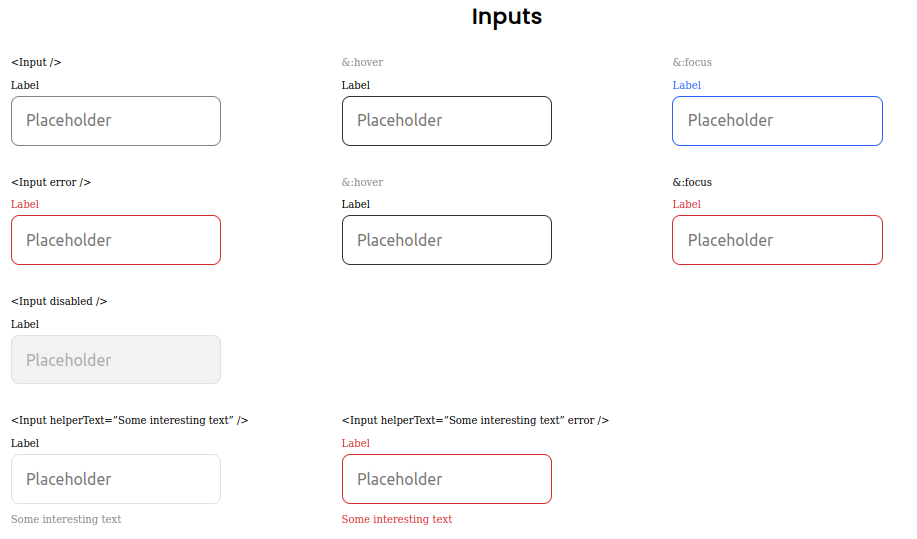
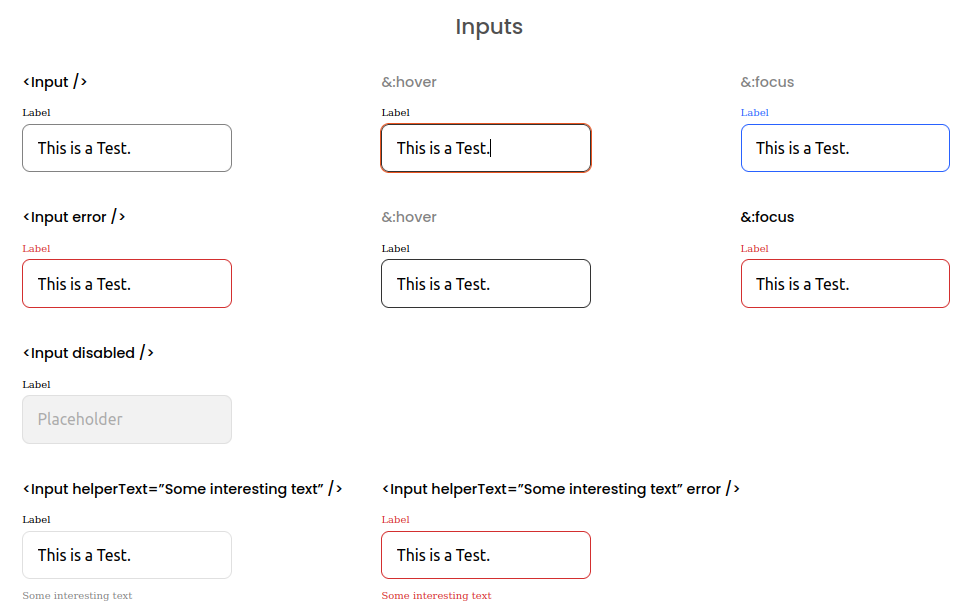
Fixed Navbar to the top.

diff --git a/src/styles/App.css b/src/styles/App.css
@@ -1,53 +1,5 @@
 @import url('https://fonts.googleapis.com/css2?family=Montserrat+Alternates:wght@500;600&family=Poppins:wght@500&display=swap');
-
-.App {
-  min-height: 100vh;
-  display: flex;
-  flex-direction: column;
-  align-items: center;
-  justify-content: center;
-  font-size: calc(10px + 2vmin);
-}
-.inputs-tittle {
-  font-family: Poppins;
-  font-size: 1.5rem;
-}
-.inputs-container {
-  display:grid;
-  justify-content: center;
-  grid-template-columns: 1fr 1fr 1fr;
-}
-
-.input-box {
-  display: flex;
-  flex-direction: column;
-  justify-content: center;
-  font-size: 0.7rem;
-}
-
-.input-name {
-  font-family: Poppins;
-  font-size: 1rem;
-}
-
-
-.input-box > input {
-  font-size: 1.1rem;
-  margin-top: 0.3rem;
-  width: 12.5rem;
-  padding: 1rem;
-  border: 1px solid #ccc;
-  border-radius: 8px;
-}
-
-.material-symbols-outlined {
-  font-size: 1.5rem;
-  color: #828282;
-  position: absolute;
-  margin-top: 2.7rem;
-  background:#fff;
-}
-
+/*Ids*/
 #input1 {
   grid-column: 1;
   grid-row: 1;
@@ -113,6 +65,69 @@
   grid-row: 9;
 }
 
+/*Classes*/
+.App {
+  min-height: 100vh;
+  display: flex;
+  flex-direction: column;
+  align-items: center;
+  justify-content: center;
+  font-size: calc(10px + 2vmin);
+}
+
+.inputs-tittle {
+  background: #FAFBFD;
+  position: fixed;
+  top: 0;
+  width:100%;
+  text-align: center;
+
+}
+.inputs-tittle > h1 {
+  
+  font-family: Poppins;
+  font-size: 1.5rem;
+  color:#4F4F4F;
+  font-weight: 500;
+}
+
+.inputs-container {
+  margin-top: 3rem;
+  display:grid;
+  justify-content: center;
+  grid-template-columns: 1fr 1fr 1fr;
+}
+
+.input-box {
+  display: flex;
+  flex-direction: column;
+  justify-content: center;
+  font-size: 0.7rem;
+}
+
+.input-name {
+  font-family: Poppins;
+  font-size: 1rem;
+}
+
+
+.input-box > input {
+  font-size: 1.1rem;
+  margin-top: 0.3rem;
+  width: 12.5rem;
+  padding: 1rem;
+  border: 1px solid #ccc;
+  border-radius: 8px;
+}
+
+.material-symbols-outlined {
+  font-size: 1.5rem;
+  color: #828282;
+  position: absolute;
+  margin-top: 2.7rem;
+  background:#fff;
+}
+
 @media (max-width: 800px) {
   .inputs-container {
    display: flex;
@@ -127,5 +142,4 @@
   #input16 {
     width:50%
   }
-  
 }

diff --git a/src/components/App.js b/src/components/App.js
@@ -24,7 +24,9 @@ function App() {
 
   return (
     <div className="App">
-      <h1 className="inputs-tittle">Inputs</h1>
+      <div className="inputs-tittle">
+        <h1>Inputs</h1>
+        </div>
       <div className="inputs-container">
         {inputs}
       </div>
